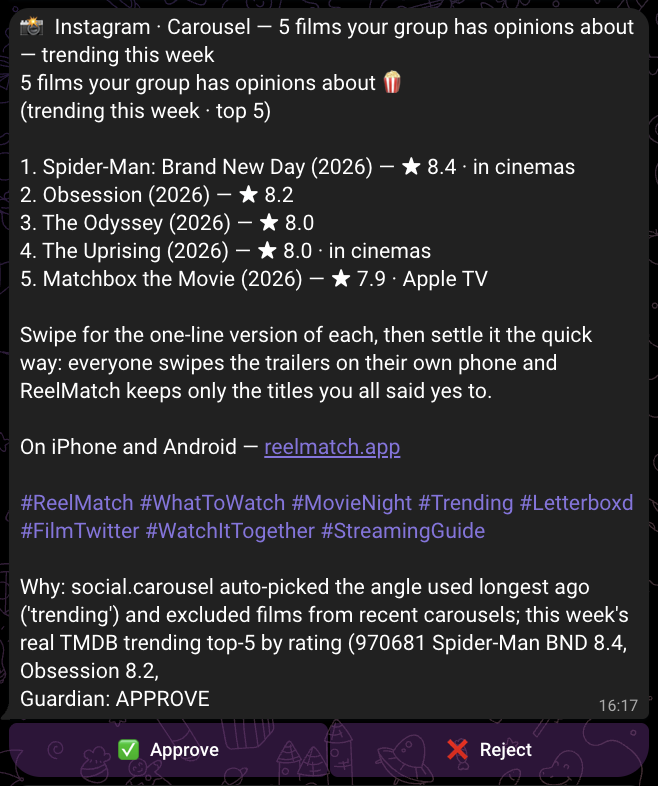
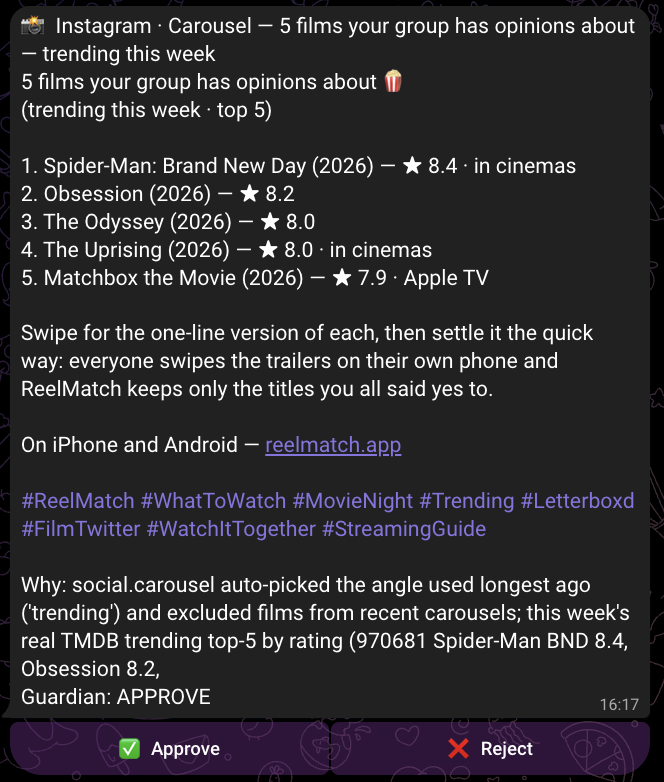
Add live screenshots: the published carousel, scheduled Shorts, Telegram console
Replaces the three-week-old Instagram grid and YouTube Studio captures with
current ones, taken after tonight's carousel published.

New: the carousel post itself, YouTube Studio showing five Shorts scheduled
under the planner's own titles (the first since the title-sync fix), the
Telegram /status and /approval sessions, the agents at work, and the
Instagram content queue. Adds the evaluation suite's own output.

diff --git a/README.md b/README.md
@@ -43,9 +43,15 @@ The clearest evidence is a single item followed the whole way. Each step can be 
 | 16:17 | An agent proposes a carousel; the brand guardian returns APPROVE. The card arrives on my phone. | [the card](screenshots/telegram-carousel-card-2026-10-13.png) |
 | 16:20 | I tap Approve. Two rows are appended: `approve`, then `queued_carousel` with `scheduled_at 18:00`. | [the ledger](logs/decisions.jsonl) |
 | 18:00 | The carousel workflow asks the gateway whether anything is due. This time it is. | [the workflow](screenshots/n8n-rm9-publish-carousel.png) |
-| 18:01 | Seven slides posted as one carousel; the permalink written back. | [the post](https://www.instagram.com/p/DecMGbMin9c/) |
+| 18:01 | Seven slides posted as one carousel; the permalink written back, and a confirmation sent. | [the confirmation](screenshots/telegram-carousel-posted.png) · [the live post](https://www.instagram.com/p/DecMGbMin9c/) |
+
+The card, with the guardian's verdict and the agent's stated reason for the angle:
 
 ![The approval card](screenshots/telegram-carousel-card-2026-10-13.png)
+
+...and the post it became, an hour later:
+
+![The published carousel](screenshots/instagram-carousel-post.png)
 
 ## Architecture
 
@@ -130,6 +136,13 @@ Their actual instructions: [brand-guardian.md](agents/brand-guardian.md) · [com
 | 2026-09-22 | [Would you swipe right on Resident Evil? 🍿](https://youtu.be/WJbvMeMR24s) | 2026-09-22 12:28 |
 | 2026-09-21 | [Nobody warned me about Resident Evil 😱 #Shorts](https://youtu.be/FgmM5O1p9OM) | — |
 
+![Scheduled Shorts in YouTube Studio](screenshots/youtube-studio-scheduled-shorts.png)
+
+Those five are the first published with the **planner's own titles**. Until 13 October the studio's
+generated fallback was uploaded instead — the planner's title lived in the draft and never reached
+YouTube, so the decision ledger and the channel disagreed about what had been posted. The title is
+now written into the upload metadata at publish time and the swap is recorded.
+
 ### Instagram — 13 posts
 
 | Date | Post | Type |
@@ -149,6 +162,28 @@ Their actual instructions: [brand-guardian.md](agents/brand-guardian.md) · [com
 | 2026-09-28 | [An FBI agent partners with a mafia hitman in 1960s Mississ](https://www.instagram.com/p/Dd0hOzooFA2/) | image |
 
 ![The Instagram grid](screenshots/instagram-profile-grid.png)
+
+## Running it
+
+The whole human interface is a phone. These are real sessions, not mock-ups.
+
+| | |
+|---|---|
+| ![/status](screenshots/telegram-status-command.png) | ![/approval](screenshots/telegram-approval-command.png) |
+
+`/status` checks every service **and** whether anything has actually *reached* a channel recently —
+the last two lines. That check exists because Instagram stopped posting for eleven days while every
+service reported healthy. `/approval` lists what is still waiting on a tap, with anything past its
+proposed slot marked.
+
+The office also has a literal one. Each character is a process the orchestrator actually started,
+traced from its own transcript:
+
+![The agents at work](screenshots/pixel-agents-office.png)
+
+And the Instagram queue the publisher reads, one post a day, oldest first:
+
+![The content queue](screenshots/n8n-instagram-queue.png)
 
 ## Results, honestly
 
@@ -188,6 +223,7 @@ which failed the first time they were run.
 workflows/     11 n8n exports, importable into any instance
 agents/        the agent prompts, the rulebooks, CLAUDE.md, EVALUATION.md, MODEL_ROUTING.md
 logs/          decisions.jsonl — every approval, rejection and publish (98 rows)
+               evaluate-output.txt — the test suite's own output, re-runnable
 screenshots/   the running system: canvases, execution history, Telegram, YouTube, Instagram
 ```
 
